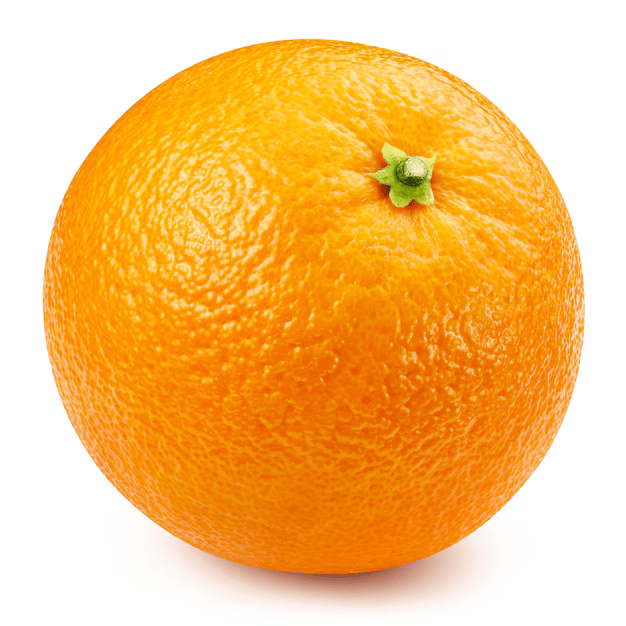
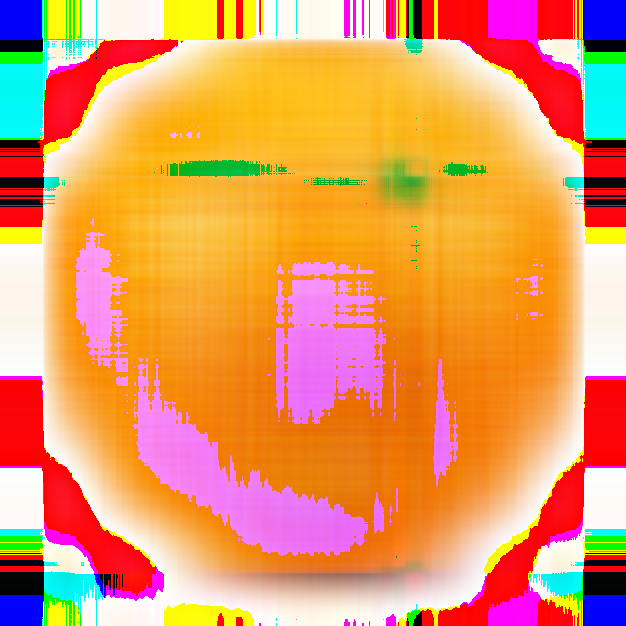
working

diff --git a/main.py b/main.py
@@ -31,23 +31,35 @@ def svdColored(img, dim):
     return rgbToImg(r, g, b).astype(np.uint8)
 
 def get_norm(svd):
+
+    return (norm_r + norm_g + norm_b) / 3
+
+def get_norm_r(svd):
     size = svd.shape[0] * svd.shape[1]
     norm_r = np.linalg.matrix_norm(svd[:,:,0]) / size
+    return norm_r
+
+def get_norm_g(svd):
+    size = svd.shape[0] * svd.shape[1]
     norm_g = np.linalg.matrix_norm(svd[:,:,1]) / size
+    return norm_g
+
+def get_norm_b(svd):
+    size = svd.shape[0] * svd.shape[1]
     norm_b = np.linalg.matrix_norm(svd[:,:,2]) / size
-
-    return math.sqrt(norm_r ** 2 + norm_g ** 2 + norm_b ** 2)
-
+    return norm_b
 
 # print(u @ np.diag(e) @ v_t)
 
 img_og = iio.imread("orange_og.png")
 img_og_svd = svdColored(img_og, 2)
 
-iio.imwrite("out2.png", img_og_svd)
+iio.imwrite("out_og.png", img_og_svd)
 
 img_1 = iio.imread("orange1.png")
 img_1_svd = svdColored(img_1, 2)
+
+iio.imwrite("out_1.png", img_1_svd)
 
 img_apple = iio.imread("apple.png")
 img_apple_svd = svdColored(img_apple, 2)